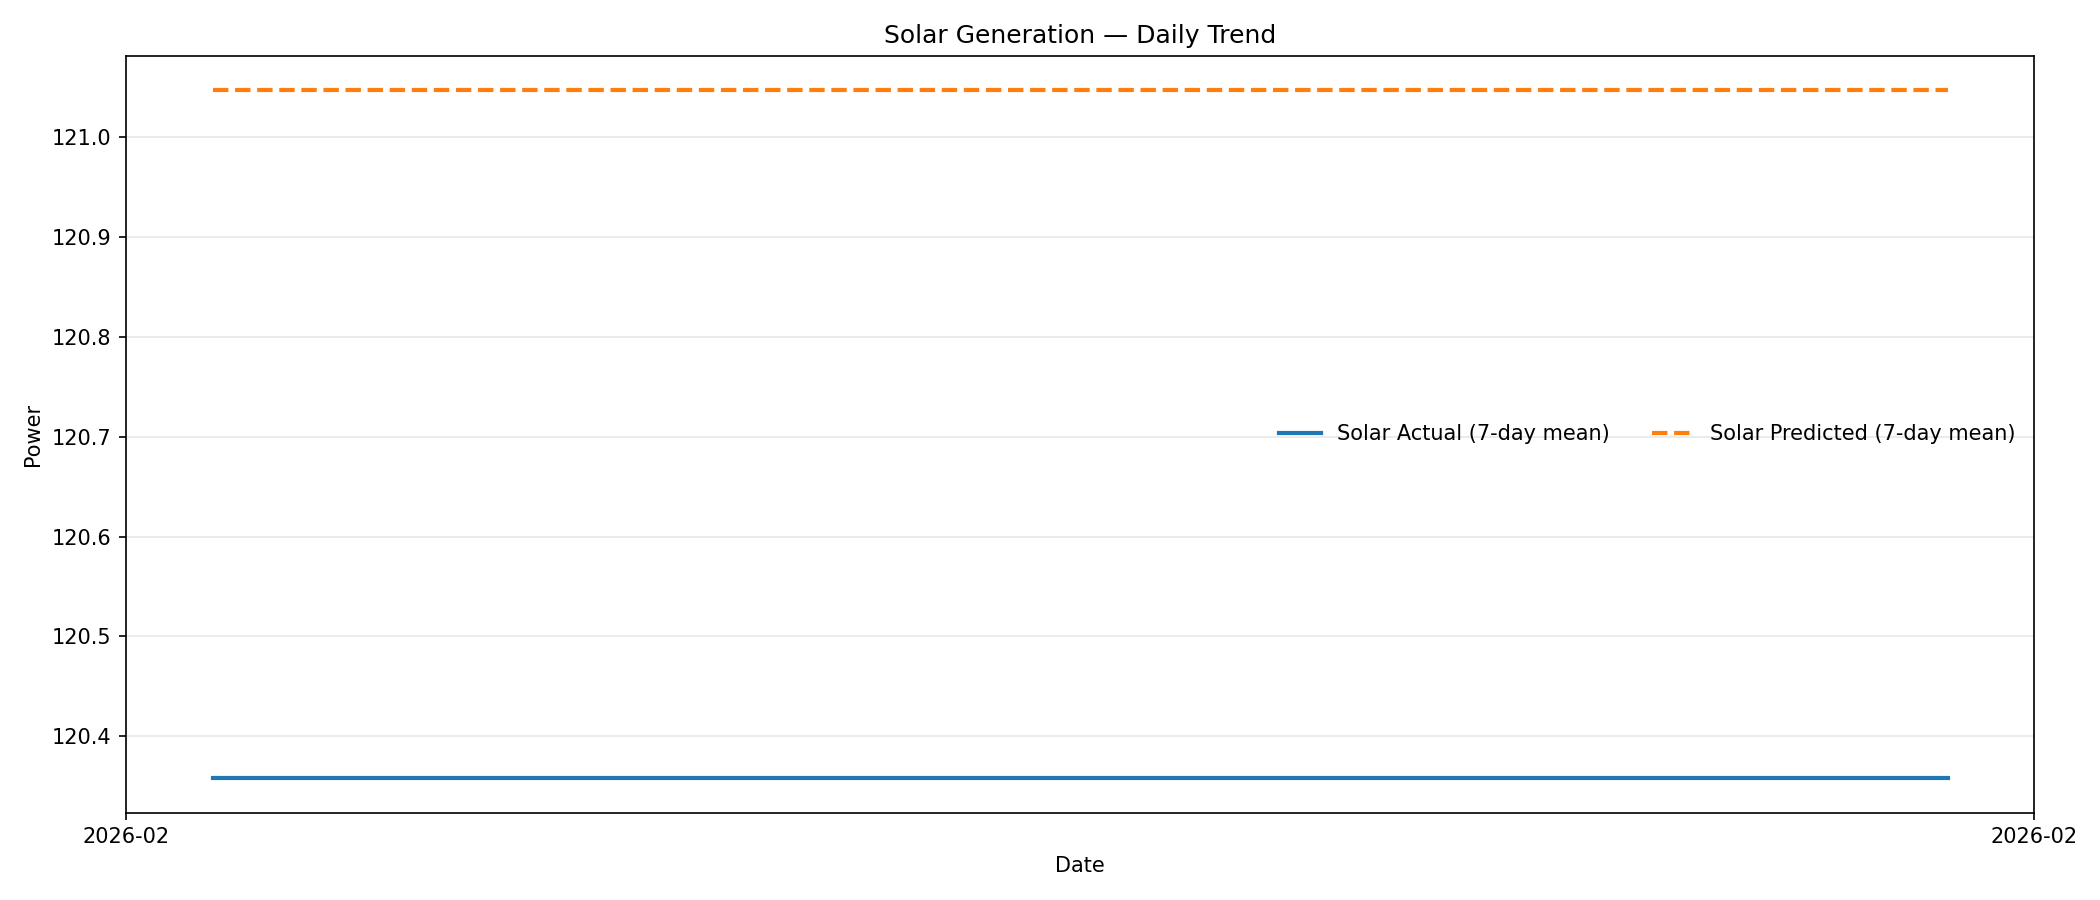
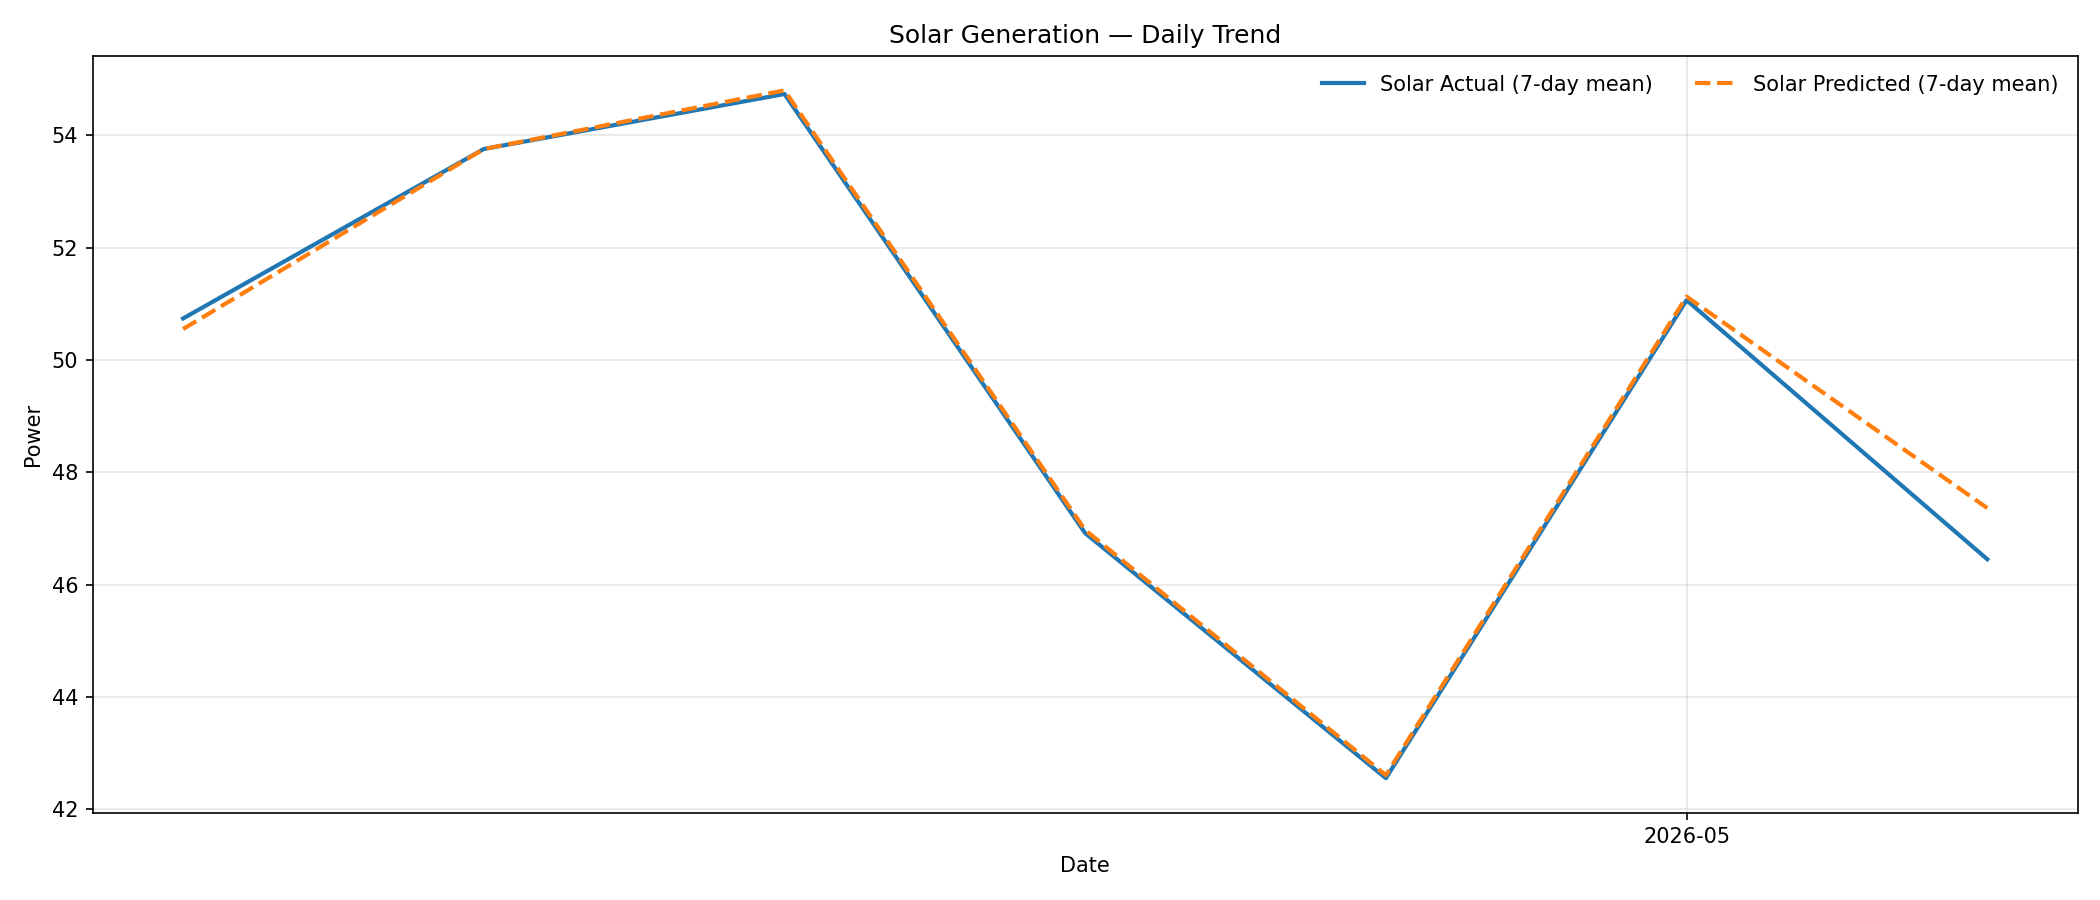
final results and plot rework

diff --git a/src/plotting.py b/src/plotting.py
@@ -1,3 +1,4 @@
+import numpy as np
 import pandas as pd
 import matplotlib.pyplot as plt
 import matplotlib.dates as mdates
@@ -6,7 +7,7 @@ import matplotlib.dates as mdates
 def plot_training_loss(losses):
     plt.figure()
     plt.plot(losses)
-    plt.title("Solar — Training Loss")
+    plt.title("Training Loss")
     plt.xlabel("Epoch")
     plt.ylabel("Loss")
     plt.grid(True)
@@ -15,7 +16,14 @@ def plot_training_loss(losses):
     plt.show()
 
 
-def plot_predictions(ts, y_true, y_pred):
+def plot_predictions(ts, y_true, y_pred, mode="historical"):
+    if mode == "local":
+        plot_local_predictions(ts, y_true, y_pred)
+    else:
+        plot_historical_predictions(ts, y_true, y_pred)
+
+
+def plot_historical_predictions(ts, y_true, y_pred):
     n_thin = 12
 
     ts_th = ts[::n_thin]
@@ -25,7 +33,7 @@ def plot_predictions(ts, y_true, y_pred):
     plt.figure(figsize=(14, 6))
     plt.plot(ts_th, y_t, label="Solar Actual", linewidth=1.5)
     plt.plot(ts_th, y_p, label="Solar Predicted", linewidth=1.5, linestyle="--")
-    plt.title("Solar Generation — Test Set")
+    plt.title("Historical Solar Generation — Test Set")
     plt.xlabel("Date")
     plt.ylabel("Power")
     plt.grid(True, alpha=0.3)
@@ -33,11 +41,92 @@ def plot_predictions(ts, y_true, y_pred):
     plt.gca().xaxis.set_major_locator(mdates.MonthLocator(interval=1))
     plt.gca().xaxis.set_major_formatter(mdates.DateFormatter("%Y-%m"))
     plt.tight_layout()
-    plt.savefig("solar_plot_test_set.png", dpi=150)
+    plt.savefig("historical_solar_predictions.png", dpi=150)
     plt.show()
 
 
-def plot_daily_trend(ts, y_true, y_pred):
+def plot_local_predictions(ts, y_true, y_pred):
+    df = pd.DataFrame({
+        "timestamp": pd.to_datetime(ts),
+        "actual": y_true,
+        "predicted": y_pred,
+    }).dropna().sort_values("timestamp")
+
+    df["error"] = df["actual"] - df["predicted"]
+
+    # Plot 1: Full local prediction window
+    plt.figure(figsize=(14, 6))
+    plt.plot(df["timestamp"], df["actual"], label="Actual PV Power", linewidth=1.5)
+    plt.plot(df["timestamp"], df["predicted"], label="Predicted PV Power", linewidth=1.5, linestyle="--")
+    plt.title("Local Solar Power Prediction — Full Test Window")
+    plt.xlabel("Time")
+    plt.ylabel("Power (W)")
+    plt.grid(True, alpha=0.3)
+    plt.legend()
+    plt.gca().xaxis.set_major_formatter(mdates.DateFormatter("%m-%d %H:%M"))
+    plt.gcf().autofmt_xdate()
+    plt.tight_layout()
+    plt.savefig("local_predictions_full.png", dpi=150)
+    plt.show()
+
+    # Daylight-only filter so nighttime zeros do not dominate the plot
+    daylight = df[df["actual"] > 10].copy()
+
+    if len(daylight) > 0:
+        plt.figure(figsize=(14, 6))
+        plt.plot(daylight["timestamp"], daylight["actual"], label="Actual PV Power", linewidth=1.5)
+        plt.plot(daylight["timestamp"], daylight["predicted"], label="Predicted PV Power", linewidth=1.5, linestyle="--")
+        plt.title("Local Solar Power Prediction — Daylight Only")
+        plt.xlabel("Time")
+        plt.ylabel("Power (W)")
+        plt.grid(True, alpha=0.3)
+        plt.legend()
+        plt.gca().xaxis.set_major_formatter(mdates.DateFormatter("%m-%d %H:%M"))
+        plt.gcf().autofmt_xdate()
+        plt.tight_layout()
+        plt.savefig("local_predictions_daylight_only.png", dpi=150)
+        plt.show()
+
+    # Plot 3: Error over time
+    plt.figure(figsize=(14, 5))
+    plt.plot(df["timestamp"], df["error"], label="Prediction Error", linewidth=1.2)
+    plt.axhline(0, linestyle="--", linewidth=1)
+    plt.title("Local Solar Prediction Error Over Time")
+    plt.xlabel("Time")
+    plt.ylabel("Actual - Predicted (W)")
+    plt.grid(True, alpha=0.3)
+    plt.legend()
+    plt.gca().xaxis.set_major_formatter(mdates.DateFormatter("%m-%d %H:%M"))
+    plt.gcf().autofmt_xdate()
+    plt.tight_layout()
+    plt.savefig("local_prediction_error.png", dpi=150)
+    plt.show()
+
+    # Plot 4: Actual vs predicted scatter
+    plt.figure(figsize=(7, 7))
+    plt.scatter(df["actual"], df["predicted"], alpha=0.5)
+
+    min_val = min(df["actual"].min(), df["predicted"].min())
+    max_val = max(df["actual"].max(), df["predicted"].max())
+    plt.plot([min_val, max_val], [min_val, max_val], linestyle="--", linewidth=1)
+
+    plt.title("Local Solar Prediction — Actual vs Predicted")
+    plt.xlabel("Actual PV Power (W)")
+    plt.ylabel("Predicted PV Power (W)")
+    plt.grid(True, alpha=0.3)
+    plt.tight_layout()
+    plt.savefig("local_actual_vs_predicted.png", dpi=150)
+    plt.show()
+
+
+def plot_daily_trend(ts, y_true, y_pred, mode="historical"):
+    if mode == "local":
+        plot_local_rolling_trend(ts, y_true, y_pred)
+    else:
+        plot_historical_daily_trend(ts, y_true, y_pred)
+
+
+def plot_historical_daily_trend(ts, y_true, y_pred):
     df_plot = pd.DataFrame({
         "ts": pd.to_datetime(ts, utc=True),
         "actual": y_true,
@@ -51,7 +140,7 @@ def plot_daily_trend(ts, y_true, y_pred):
     plt.figure(figsize=(14, 6))
     plt.plot(daily.index, daily["actual7"], label="Solar Actual (7-day mean)", linewidth=2)
     plt.plot(daily.index, daily["pred7"], label="Solar Predicted (7-day mean)", linewidth=2, linestyle="--")
-    plt.title("Solar Generation — Daily Trend")
+    plt.title("Historical Solar Generation — Daily Trend")
     plt.xlabel("Date")
     plt.ylabel("Power")
     plt.grid(True, alpha=0.3)
@@ -59,5 +148,32 @@ def plot_daily_trend(ts, y_true, y_pred):
     plt.gca().xaxis.set_major_locator(mdates.MonthLocator(interval=1))
     plt.gca().xaxis.set_major_formatter(mdates.DateFormatter("%Y-%m"))
     plt.tight_layout()
-    plt.savefig("solar_plot_daily_trend.png", dpi=150)
+    plt.savefig("historical_daily_trend.png", dpi=150)
+    plt.show()
+
+
+def plot_local_rolling_trend(ts, y_true, y_pred):
+    df = pd.DataFrame({
+        "timestamp": pd.to_datetime(ts),
+        "actual": y_true,
+        "predicted": y_pred,
+    }).dropna().sort_values("timestamp")
+
+    df = df.set_index("timestamp")
+
+    # 15-minute rolling average is more useful than daily average for local minute data
+    rolling = df.rolling("15min", min_periods=1).mean()
+
+    plt.figure(figsize=(14, 6))
+    plt.plot(rolling.index, rolling["actual"], label="Actual PV Power (15-min mean)", linewidth=2)
+    plt.plot(rolling.index, rolling["predicted"], label="Predicted PV Power (15-min mean)", linewidth=2, linestyle="--")
+    plt.title("Local Solar Power Prediction — 15-Minute Rolling Trend")
+    plt.xlabel("Time")
+    plt.ylabel("Power (W)")
+    plt.grid(True, alpha=0.3)
+    plt.legend()
+    plt.gca().xaxis.set_major_formatter(mdates.DateFormatter("%m-%d %H:%M"))
+    plt.gcf().autofmt_xdate()
+    plt.tight_layout()
+    plt.savefig("local_15min_rolling_trend.png", dpi=150)
     plt.show()

diff --git a/src/config.py b/src/config.py
@@ -17,13 +17,8 @@ HISTORICAL_FEATURE_COLS = [
     "dew",
 ]
 
-LLOCAL_FEATURE_COLS = [
+LOCAL_FEATURE_COLS = [
     "Solar_Irradiance_Wm2",
-    "UV_Index",
-    "Air_Temp_C",
-    "Humidity_pct",
-    "Air_Pressure_inHg",
-    "Wind_Speed_ms",
     "PV_Current_A",
     "PV_Voltage_V",
     "Battery_Power_W",
